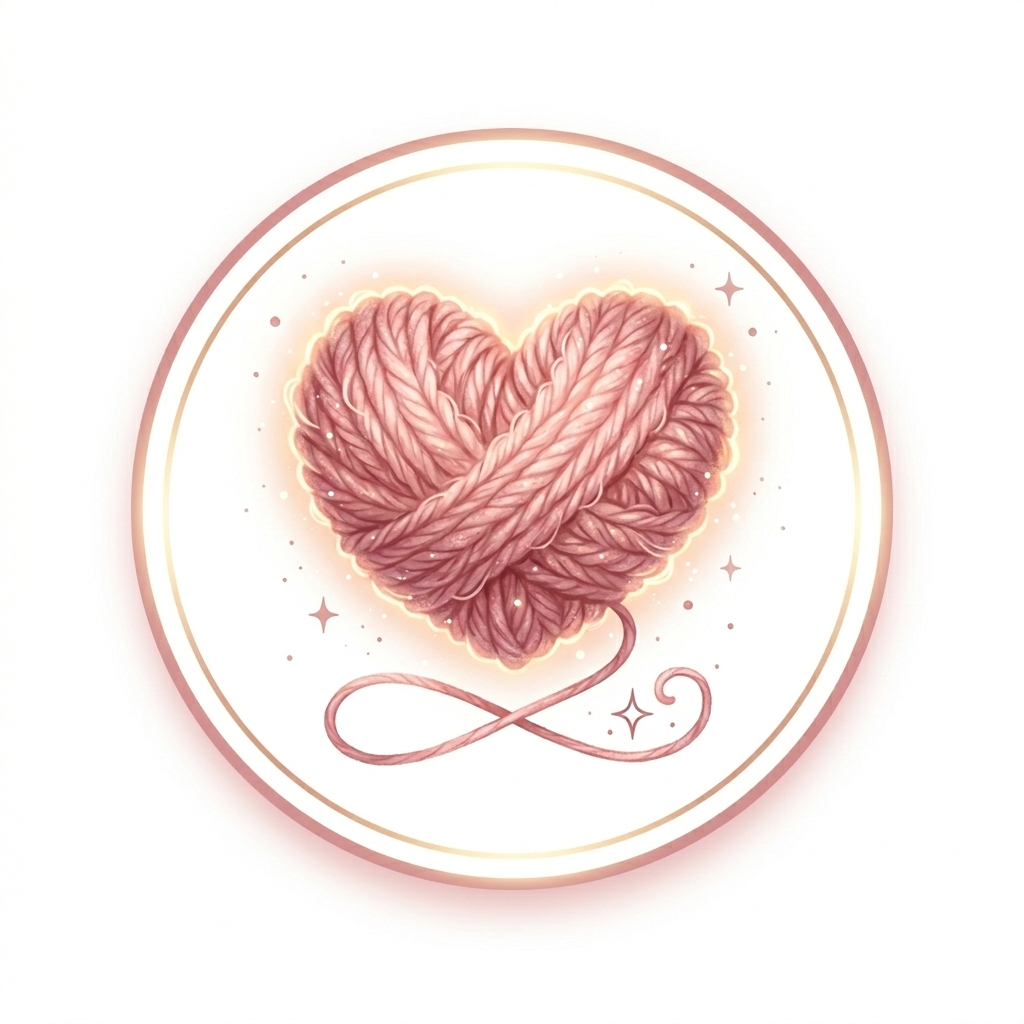
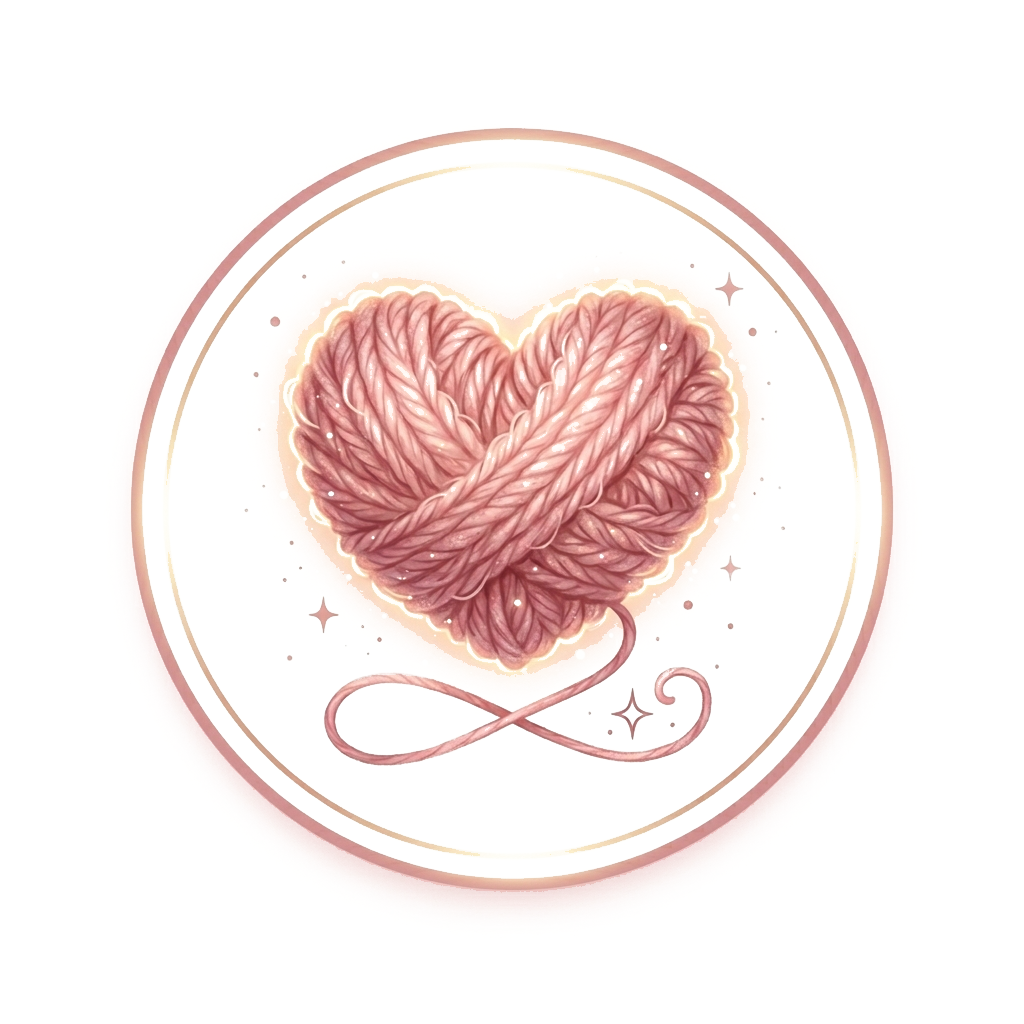
Make YARN button circular using transparent yarn.png
- Remove white background from yarn.png (saturation-based pixel detection)
- Redesign YARN button in WorkDetail to show image as round clickable icon
- Count and label displayed below the button; scale animation on active state

diff --git a/src/components/WorkDetail.jsx b/src/components/WorkDetail.jsx
@@ -91,25 +91,23 @@ export default function WorkDetail({ work, yarns, books, currentUserId, onClose,
       </div>
 
       {/* YARNボタン */}
-      <div style={{ display: 'flex', justifyContent: 'center', margin: '10px 0 6px' }}>
+      <div style={{ display: 'flex', flexDirection: 'column', alignItems: 'center', margin: '10px 0 6px' }}>
         <button
           onClick={toggleYarn}
           disabled={yarnLoading}
           style={{
-            display: 'flex', alignItems: 'center', gap: '8px',
-            background: hasYarned ? '#F7ECF0' : 'var(--surface)',
-            border: `1.5px solid ${hasYarned ? '#8C6272' : 'var(--border)'}`,
-            borderRadius: '99px', padding: '9px 22px',
+            background: 'none', border: 'none', padding: 0,
             cursor: yarnLoading ? 'default' : 'pointer',
-            fontSize: '13px', fontFamily: 'inherit', fontWeight: hasYarned ? 600 : 400,
-            color: hasYarned ? '#8C6272' : 'var(--text-secondary)',
-            transition: 'all 0.18s', opacity: yarnLoading ? 0.7 : 1,
-            letterSpacing: '0.05em',
+            opacity: yarnLoading ? 0.7 : 1,
+            transform: hasYarned ? 'scale(1.1)' : 'scale(1)',
+            transition: 'transform 0.18s, opacity 0.18s',
           }}
         >
-          <YarnBallIcon active={hasYarned} size={22} />
-          YARN{yarnCount > 0 ? `  ${yarnCount}` : ''}
+          <YarnBallIcon active={hasYarned} size={64} />
         </button>
+        <div style={{ fontSize: '11px', color: hasYarned ? '#8C6272' : 'var(--text-tertiary)', fontWeight: hasYarned ? 600 : 400, marginTop: '4px', letterSpacing: '0.06em' }}>
+          YARN{yarnCount > 0 ? ` ${yarnCount}` : ''}
+        </div>
       </div>
 
       {work.needle ? <div className="detail-row"><span className="dl">編み方</span><span className="dv">{work.needle}</span></div> : null}
